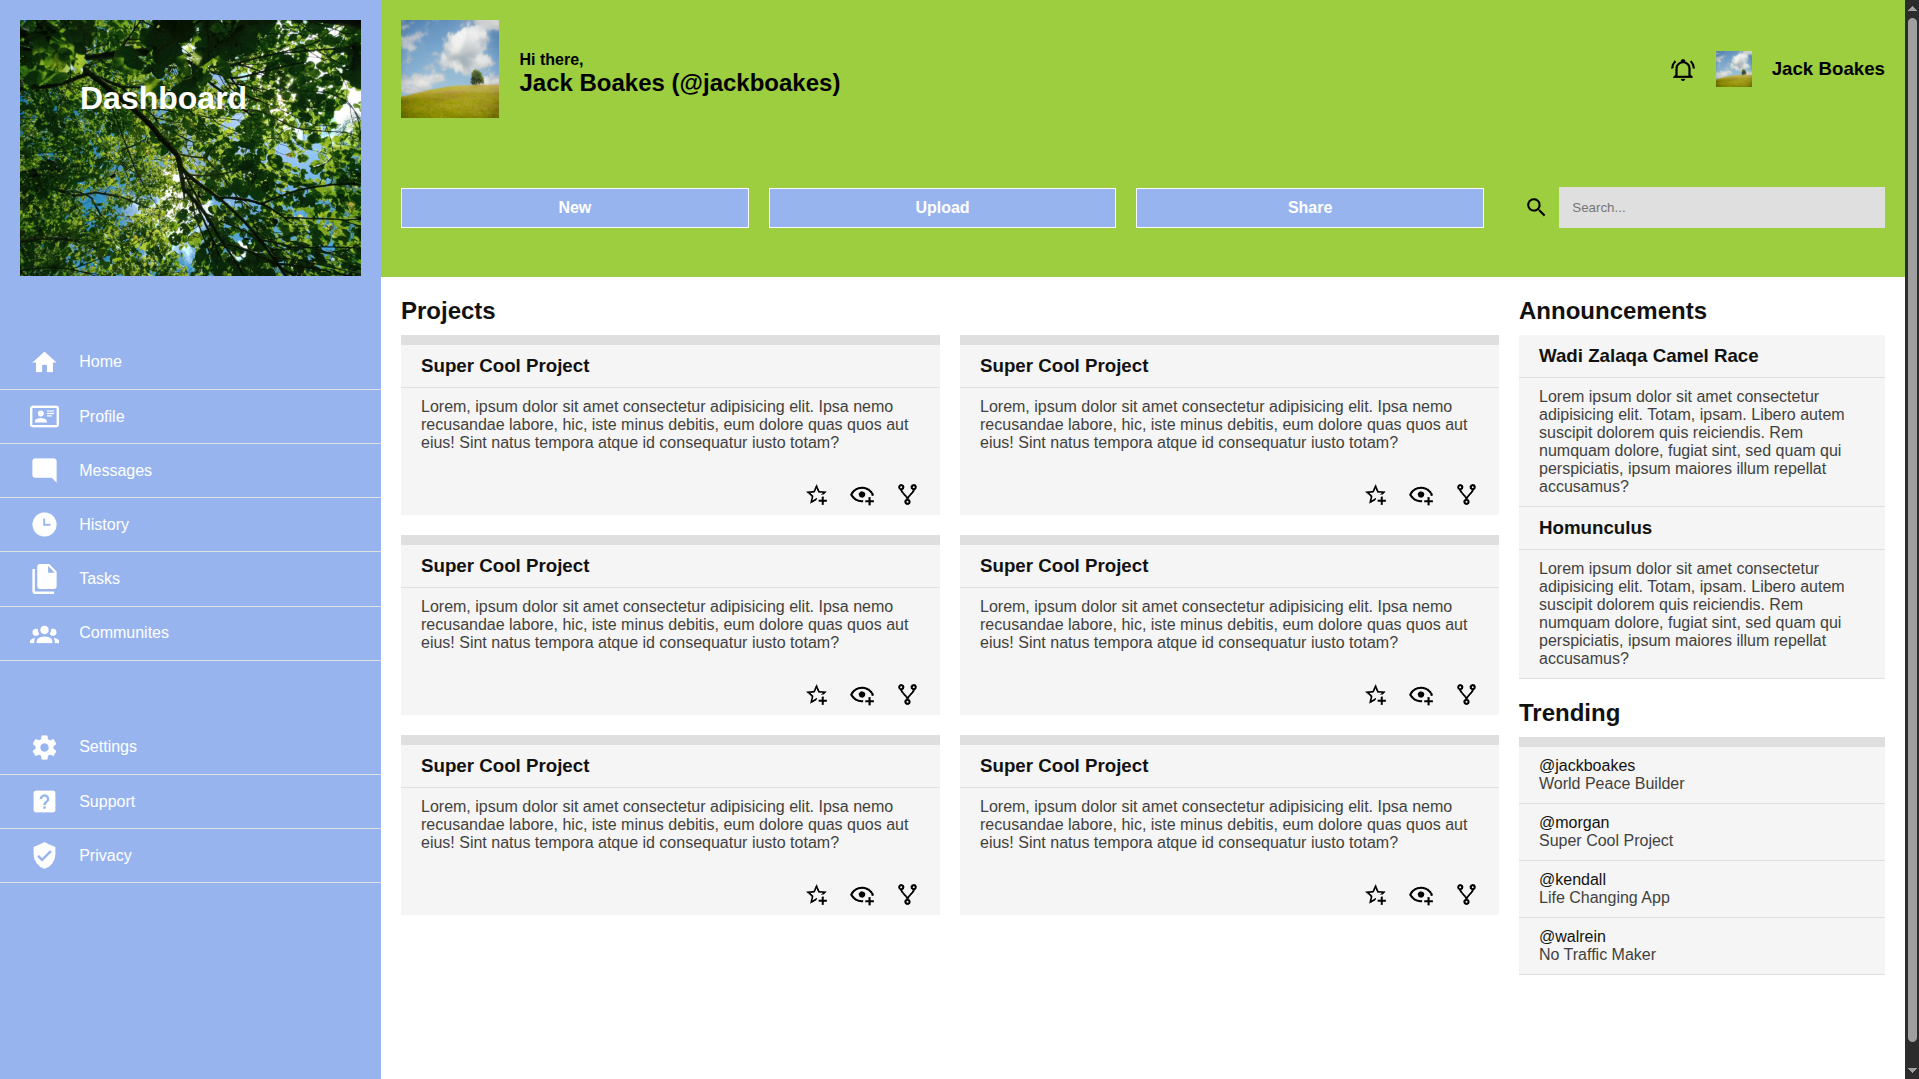
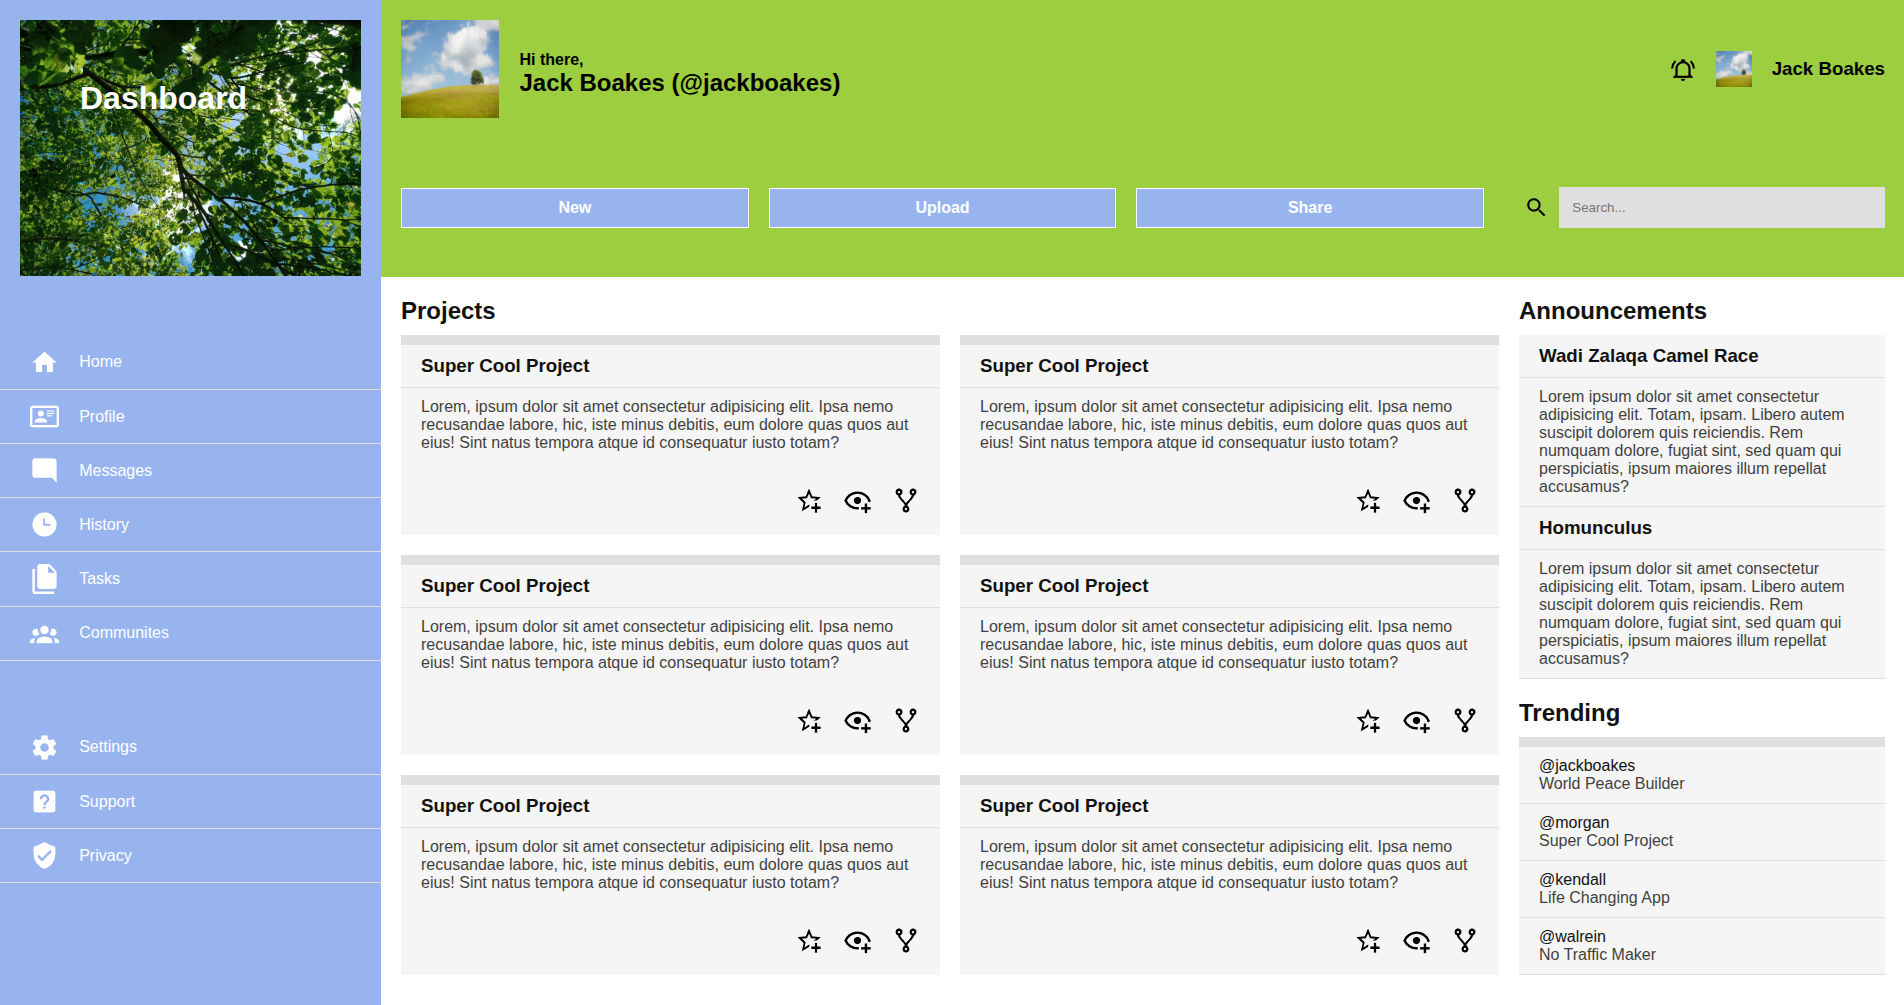
Update README.md

diff --git a/css/styles.css b/css/styles.css
@@ -187,7 +187,7 @@ header .top-right p {
 
 .card {
     background-color: var(--card-colour);
-    height: 180px;
+    height: 200px;
     border-top: 10px solid var(--accent-colour);
     display: flex;
     flex-direction: column;

diff --git a/README.md b/README.md
@@ -1,3 +1,5 @@
 # Admin Dashboard
 A practice exericse for learning CSS grid container.
 Not responsive on mobile.
+## Preview
+<img src="./preview.png">
